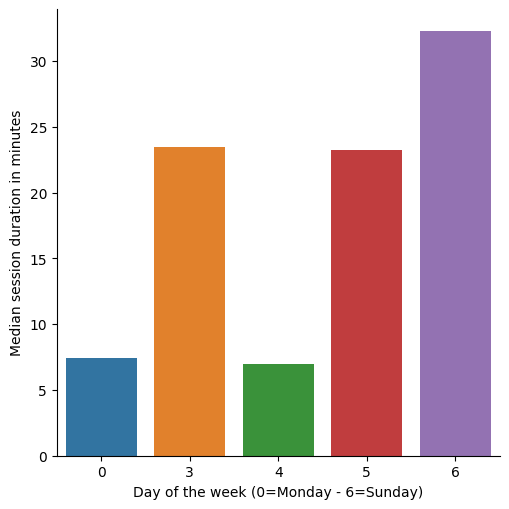
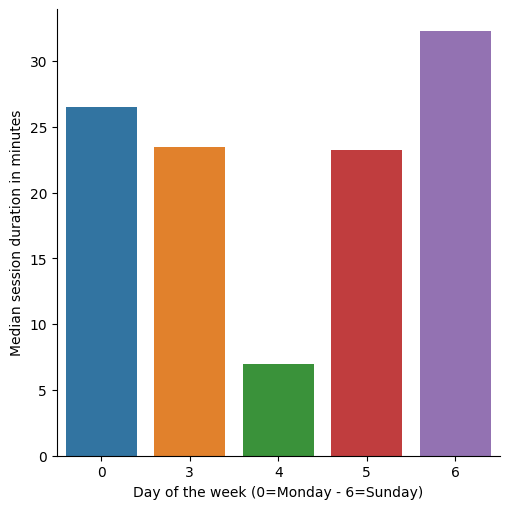
"Stats generated 2021-10-12"

Changed region(s): [[0.1179, 0.2063, 0.2947, 0.7073]]

diff --git a/all/2021/10/days/11/index.html b/all/2021/10/days/11/index.html
@@ -1,0 +1,29 @@
+<!DOCTYPE html>
+<html>
+  <head>
+    <meta charset="utf-8"/>
+    <title>11 October 2021</title>
+    <link rel="stylesheet" href="../../../../../styles.css"/>
+  </head>
+  <body>
+    <div id="container">
+      <nav>
+        <ul>
+          
+            <li><a href="../../">October 2021</a></li>
+            <li class="separator"></li>
+          
+          
+        </ul>
+      </nav>
+      <main>
+        <h1>11 October 2021</h1>
+        
+          <h2>Number of sessions per hour</h2>
+          <img src="sessions.png" alt="Number of sessions per hour"/>
+        
+        
+      </main>
+    </div>
+  </body>
+</html>

diff --git a/all/2021/index.html b/all/2021/index.html
@@ -143,9 +143,9 @@
                   
                     <td>10.0</td>
                   
-                    <td>56.0</td>
+                    <td>65.0</td>
                   
-                    <td>22.43531958333333</td>
+                    <td>22.521147766666665</td>
                   
                 </tr>
               

diff --git a/all/2021/10/index.html b/all/2021/10/index.html
@@ -66,6 +66,10 @@
               <li><a href="days/10/">10</a></li>
             
           
+            
+              <li><a href="days/11/">11</a></li>
+            
+          
         </ul>
       </nav>
       <main>
